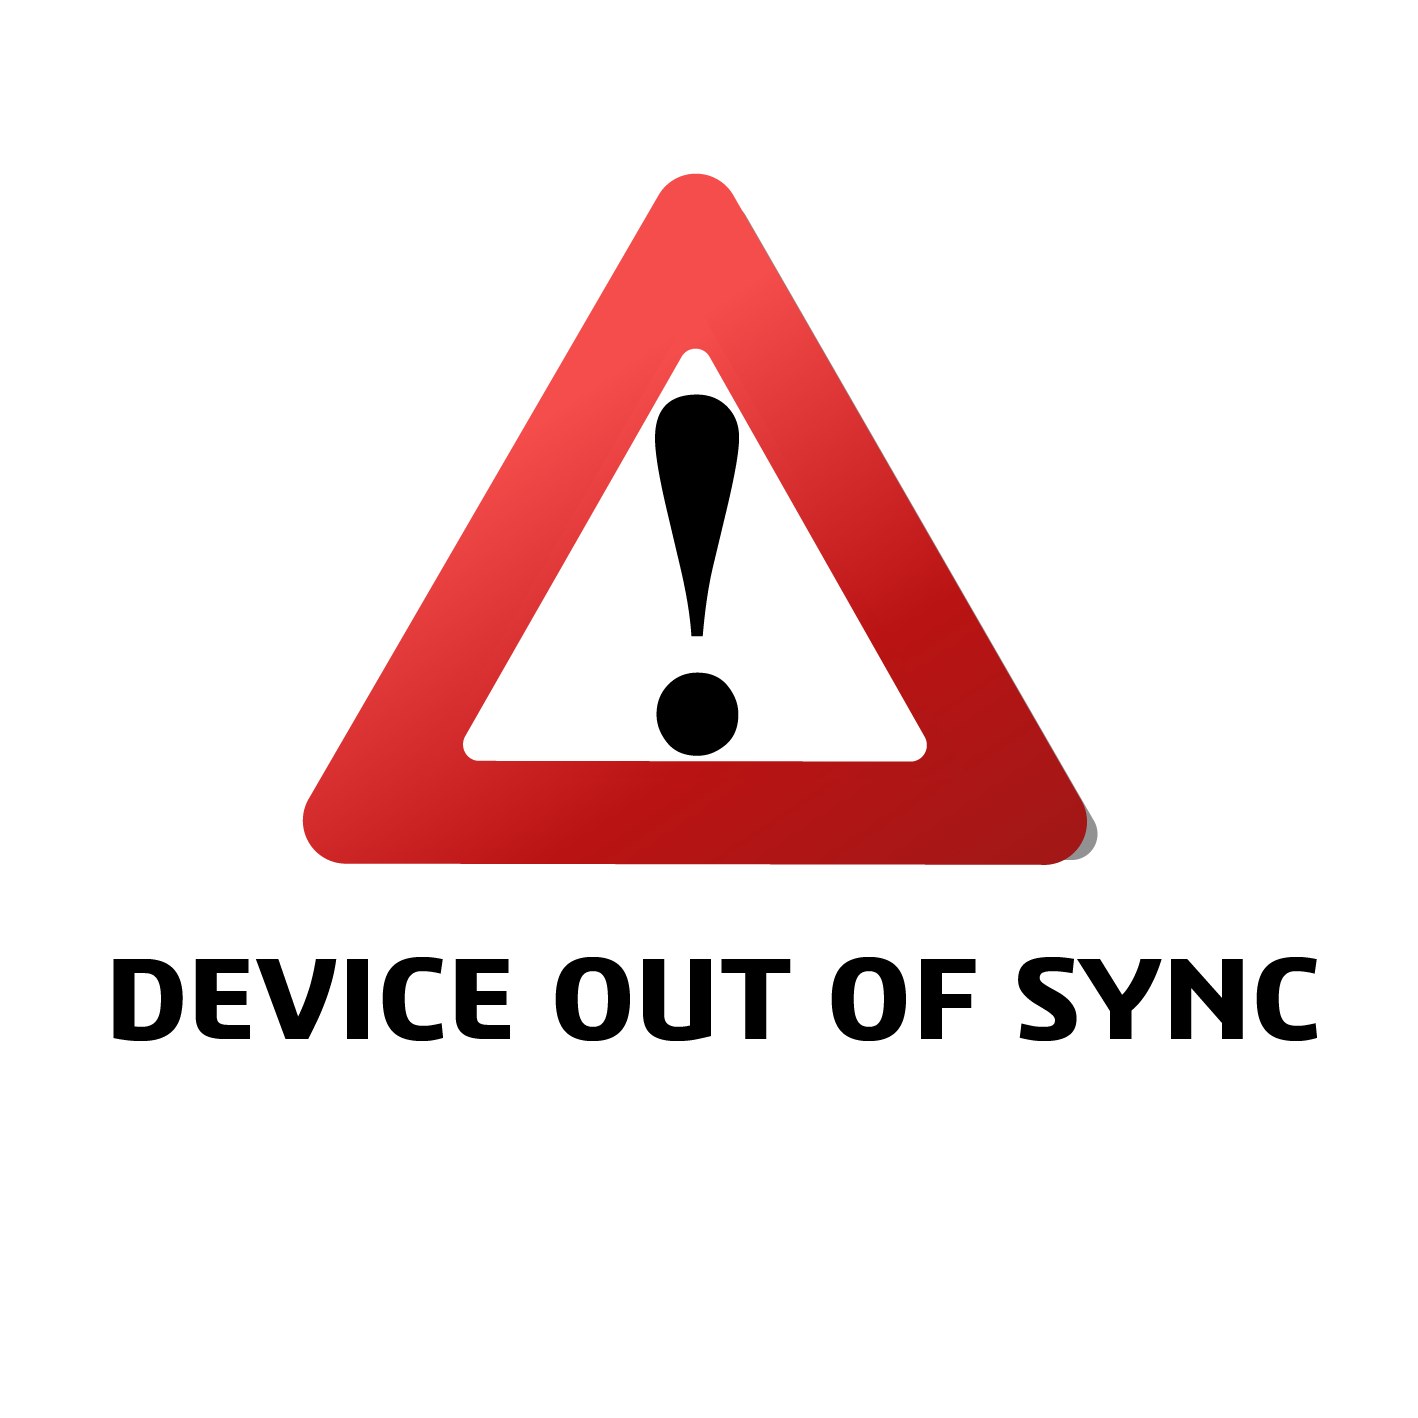
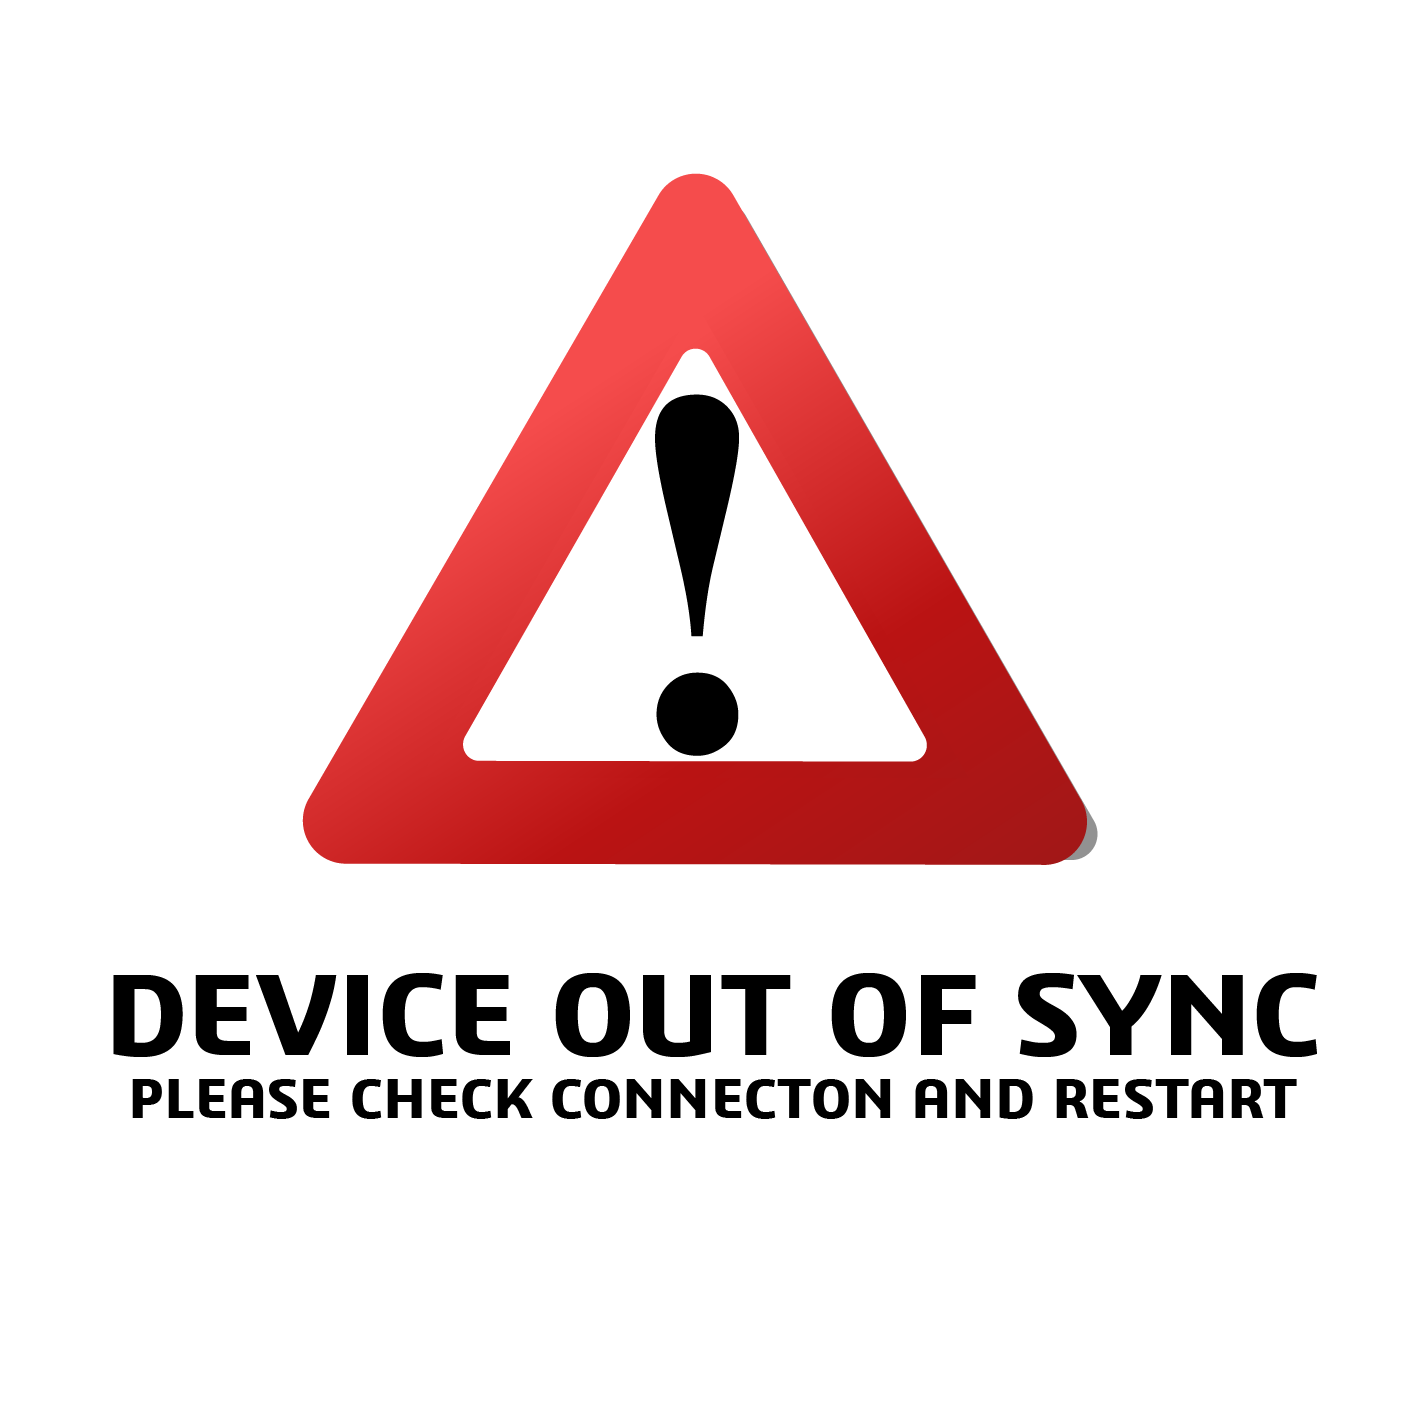
update

Changed region(s): [[0.0621, 0.6516, 0.9309, 0.8068]]

diff --git a/_python/Commands.py b/_python/Commands.py
@@ -1,4 +1,5 @@
 import Settings
+import UI_Update
 import PyQt5
 from PyQt5 import QtCore, QtGui, QtWidgets
 from time import sleep
@@ -28,10 +29,8 @@ def send_CMD(self,CMD):
         Settings.ASD.write(bytes(CMD, 'UTF-8'))
     
     except:
-        error_img = PyQt5.QtGui.QImage("../_image/Error.png")
-        self.Image_Frame.setPixmap(QtGui.QPixmap(error_img))
-        self.Control_Tab.setEnabled(False)
-        self.Misc_Frame.setEnabled(False)
+        UI_Update.desync(self)
+        
 
 def disco_run(self):
     current_CMD ="2~1\n"

diff --git a/_python/UI_Update.py b/_python/UI_Update.py
@@ -8,6 +8,12 @@ def LED_validate(self):
     else:
         self.lightConfirm_pushButton.setEnabled(True)
 
+def desync(self);
+    error_img = PyQt5.QtGui.QImage("../_image/Error.png")
+    self.Image_Frame.setPixmap(QtGui.QPixmap(error_img))
+    self.Control_Tab.setEnabled(False)
+    self.Misc_Frame.setEnabled(False)
+
 '''def check_stat(self):
     return self.Start_Schedule.isEnabled()
 

diff --git a/_python/Settings.py b/_python/Settings.py
@@ -3,7 +3,6 @@ import serial
 def init():
 
     global base_Connected
-    
     base_Connected = True
 
     try:
